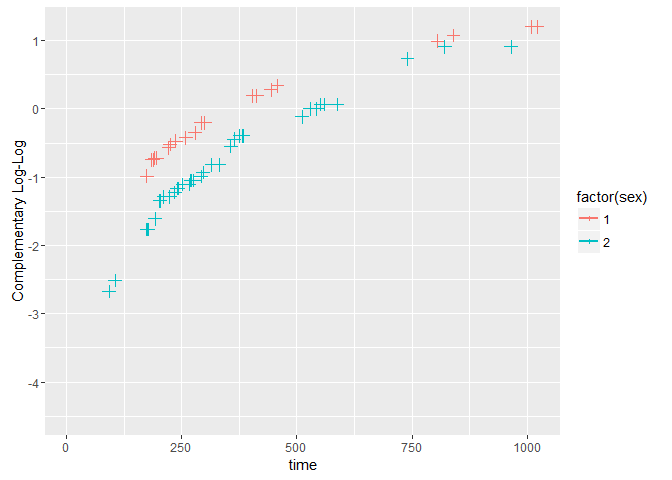
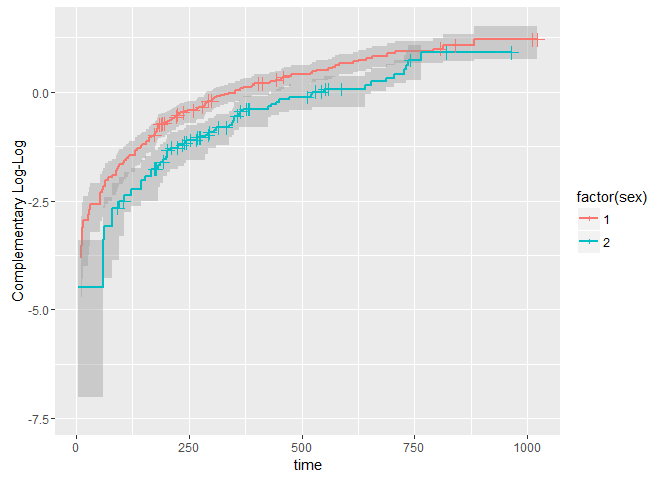
fix example

diff --git a/README.md b/README.md
@@ -79,9 +79,6 @@ Tranformations
     ggplot(lung, aes(time = time, status = status, color = factor(sex))) + geom_km(trans = "cloglog") + 
       geom_kmticks(trans = "cloglog") + ylab("Complementary Log-Log")
 
-    ## Warning: Computation failed in `stat_km()`:
-    ## arguments imply differing number of rows: 198, 200, 199
-
 ![](README_files/figure-markdown_strict/unnamed-chunk-4-3.png)
 
 Acknowledgements
